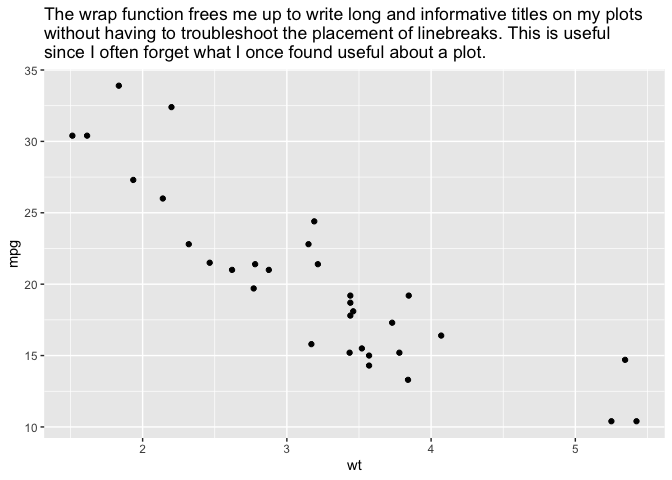
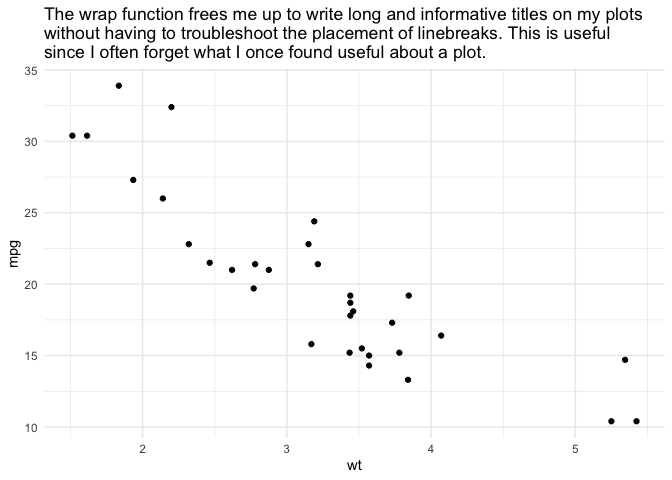
removes typos in README

diff --git a/README.md b/README.md
@@ -8,9 +8,10 @@ subdirectories in your R projects so that you and your collaborators can
 readily store code and data in appropriate folders, and coordinate that
 code and data with Makefiles.
 
-To get started using `breadcrumbs` 1. open a new or existing R project  
-2\. Load the breadcrumbs package `library(breadcrumbs)` 2. Execute the
-`create_project_directories()` function in your console
+To get started using `breadcrumbs`  
+1\. open a new or existing R project  
+2\. Load the breadcrumbs package `library(breadcrumbs)`  
+2\. Execute the `create_project_directories()` function in your console
 
 You will now see a standard set of project subdirectories appear in your
 project directory, and breadcrumbs is filled with functions to support
@@ -39,7 +40,8 @@ library(tidyverse)
 
 ggplot(mtcars, aes(x = wt, y = mpg)) + 
     geom_point() + 
-    labs(title = wrap("The wrap function frees me up to write long and informative titles on my plots without having to troubleshoot the placement of linebreaks. This is useful since I often forget what I once found useful about a plot.", 80))
+    labs(title = wrap("The wrap function frees me up to write long and informative titles on my plots without having to troubleshoot the placement of linebreaks. This is useful since I often forget what I once found useful about a plot.", 80)) + 
+    theme_minimal()
 ```
 
 ![](README_files/figure-gfm/unnamed-chunk-1-1.png)<!-- -->
